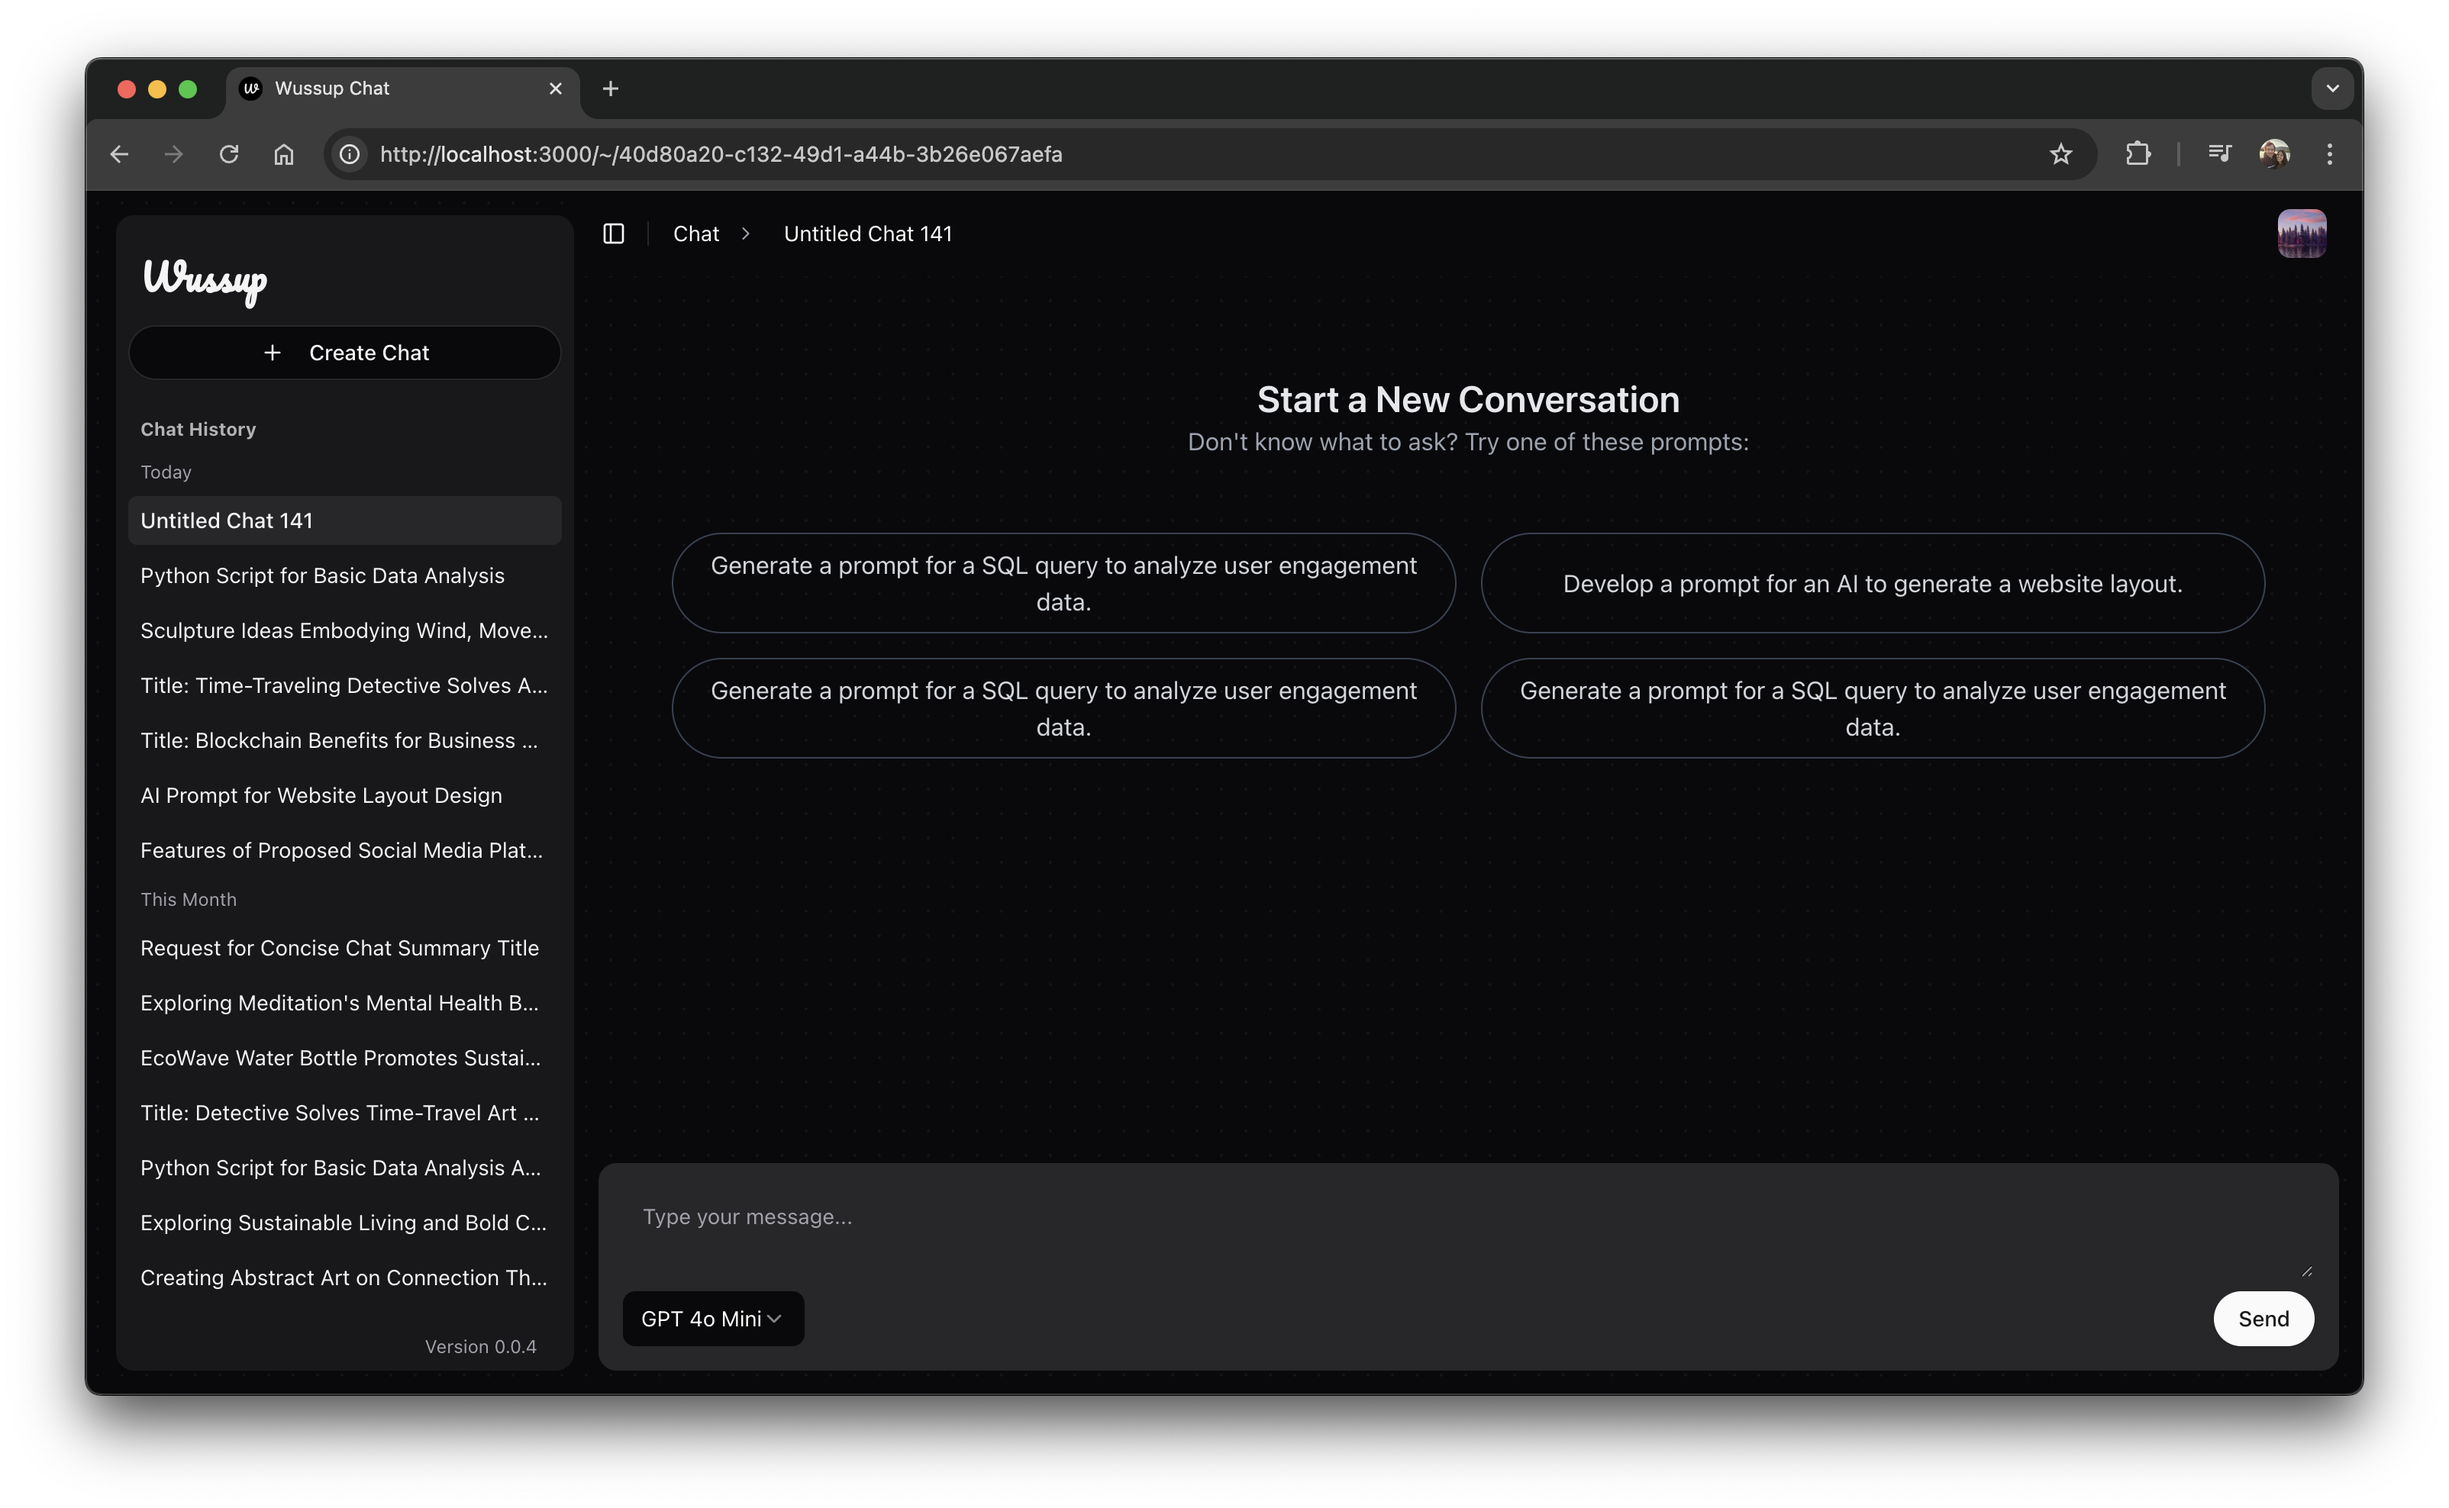
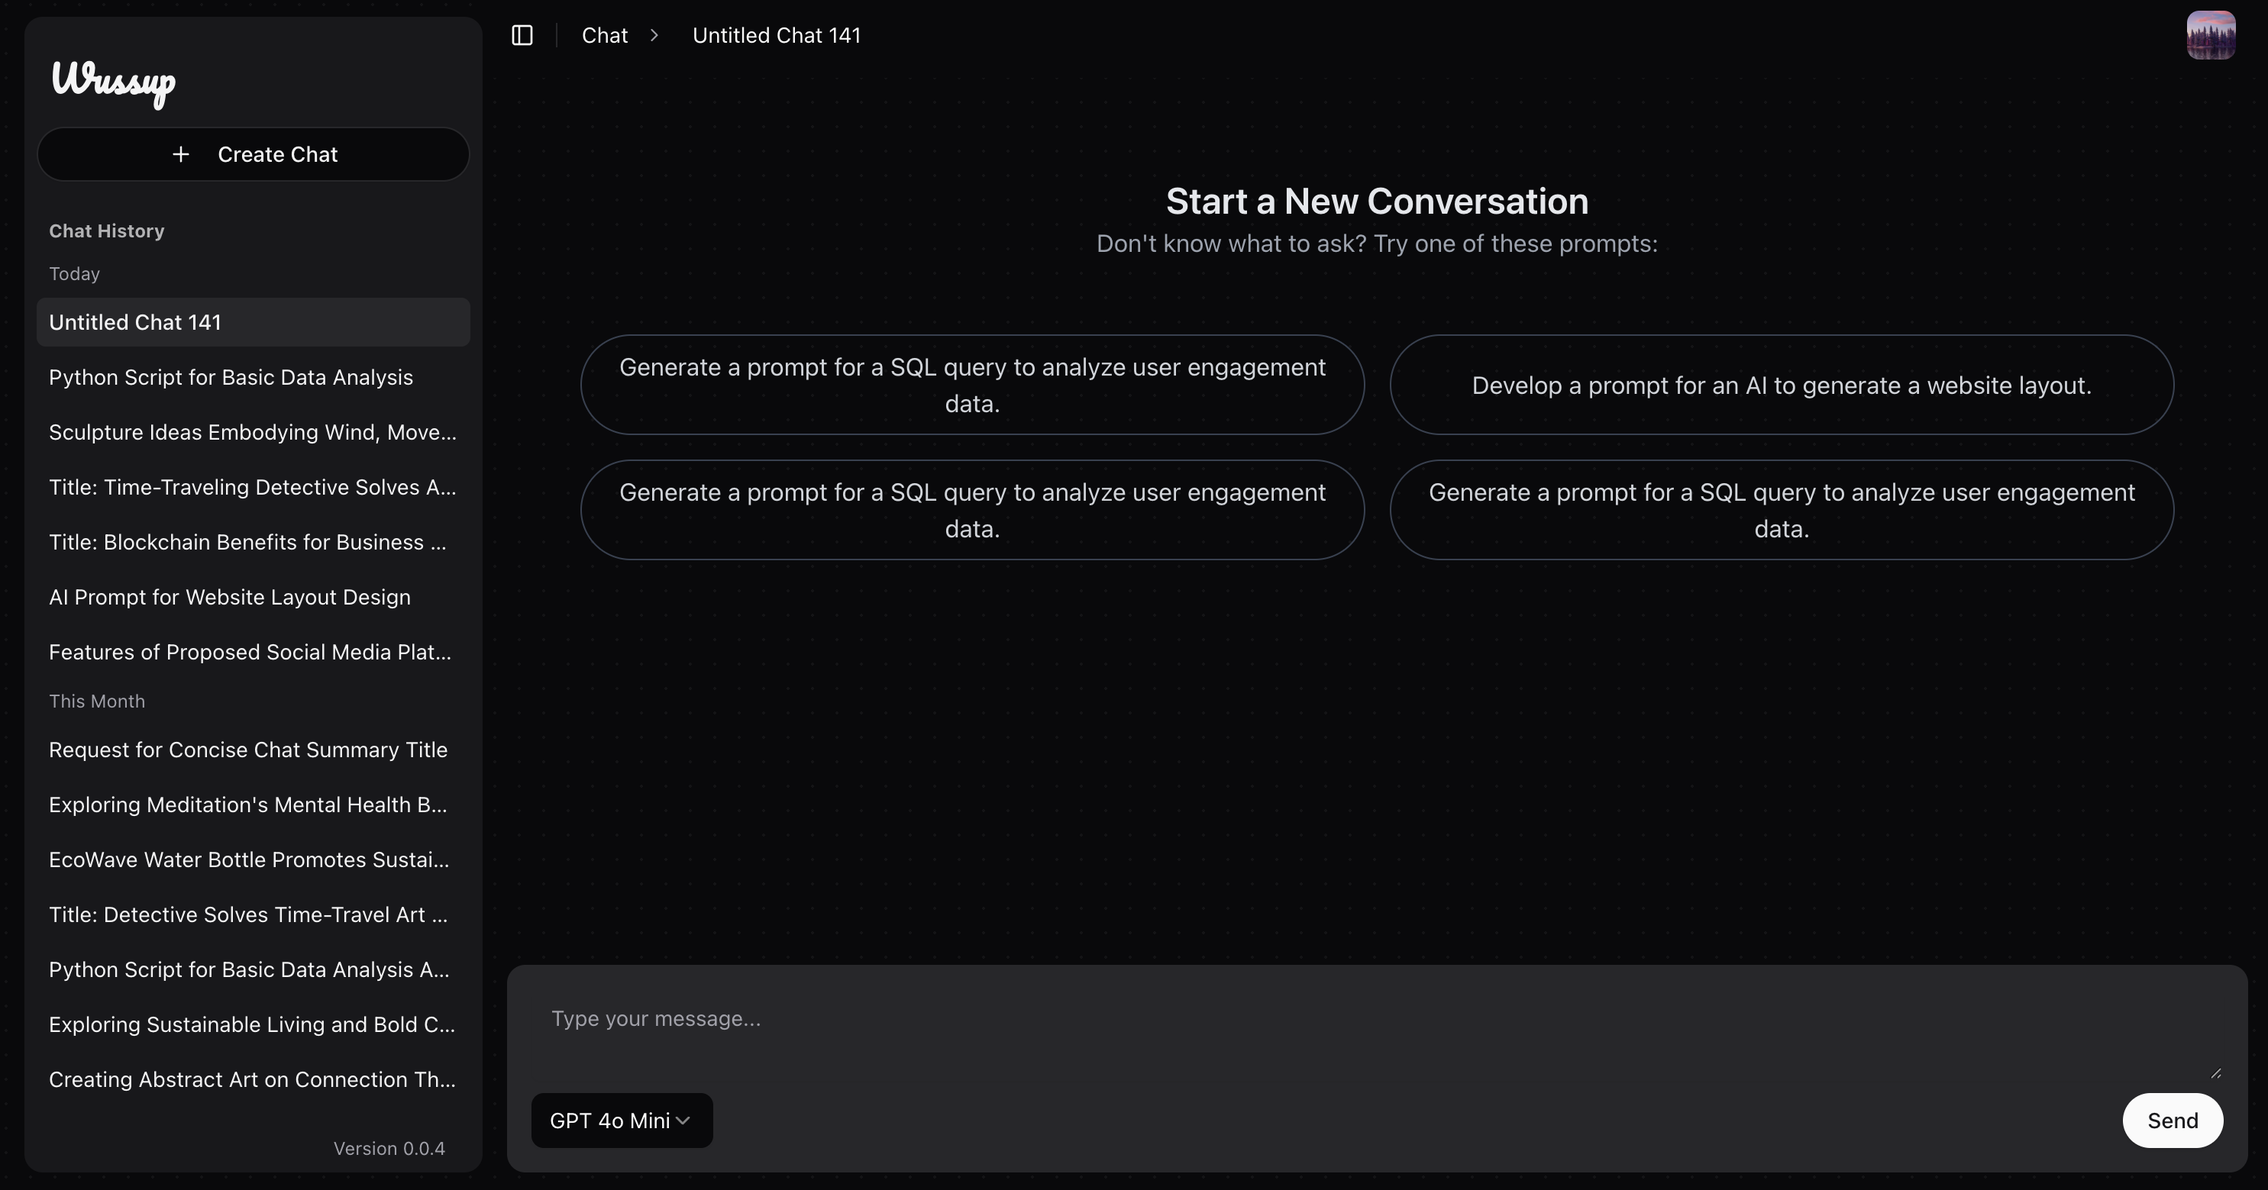
Reintroduce Background component in session page and layout

diff --git a/src/app/~/[session]/page.tsx b/src/app/~/[session]/page.tsx
@@ -10,6 +10,7 @@ import { User } from "@/types/user";
 import { ChatSession } from "@/types/chat";
 import { generateCurrentSessionPlaceholder } from "./_helpers/currentSessionPlaceholder";
 import { AppState } from "@/components/AppState";
+import { Background } from "@/components/ui/Background";
 
 export default async function Page({ params }: { params: Promise<{ session: string }> }) {
   const supabase = await createClient();
@@ -38,18 +39,20 @@ export default async function Page({ params }: { params: Promise<{ session: stri
   const isUserSubscribed = isSubscriptionActive(subscriptionEndDate);
 
   return (
-    <AppState user={usersResult.data as unknown as User} currentSession={currentSession as ChatSession}>
-      <ChatLayout sessions={groupedSessions}>
-        <ChatApp
-          isUserSubscribed={isUserSubscribed}
-          sessionId={sessionId}
-          initialMessages={currentSession?.messages?.map((message) => ({
-            id: message.id,
-            content: message.content,
-            role: message.is_user ? "user" : "assistant",
-          }))}
-        />
-      </ChatLayout>
-    </AppState>
+    <Background>
+      <AppState user={usersResult.data as unknown as User} currentSession={currentSession as ChatSession}>
+        <ChatLayout sessions={groupedSessions}>
+          <ChatApp
+            isUserSubscribed={isUserSubscribed}
+            sessionId={sessionId}
+            initialMessages={currentSession?.messages?.map((message) => ({
+              id: message.id,
+              content: message.content,
+              role: message.is_user ? "user" : "assistant",
+            }))}
+          />
+        </ChatLayout>
+      </AppState>
+    </Background>
   );
 }

diff --git a/src/app/layout.tsx b/src/app/layout.tsx
@@ -1,7 +1,6 @@
 import type { Metadata } from "next";
 import { Geist, Geist_Mono } from "next/font/google";
 import { Pacifico } from "next/font/google";
-import { Background } from "@/components/ui/Background";
 import "../styles/globals.css";
 import "katex/dist/katex.min.css";
 import { Toaster } from "@/components/ui/toaster";
@@ -35,7 +34,8 @@ export default function RootLayout({
 }>) {
   const content = (
     <div className="h-full">
-      <Background>{children}</Background>
+      {children}
+      {/* <Background>{children}</Background> */}
       <Toaster />
     </div>
   );
